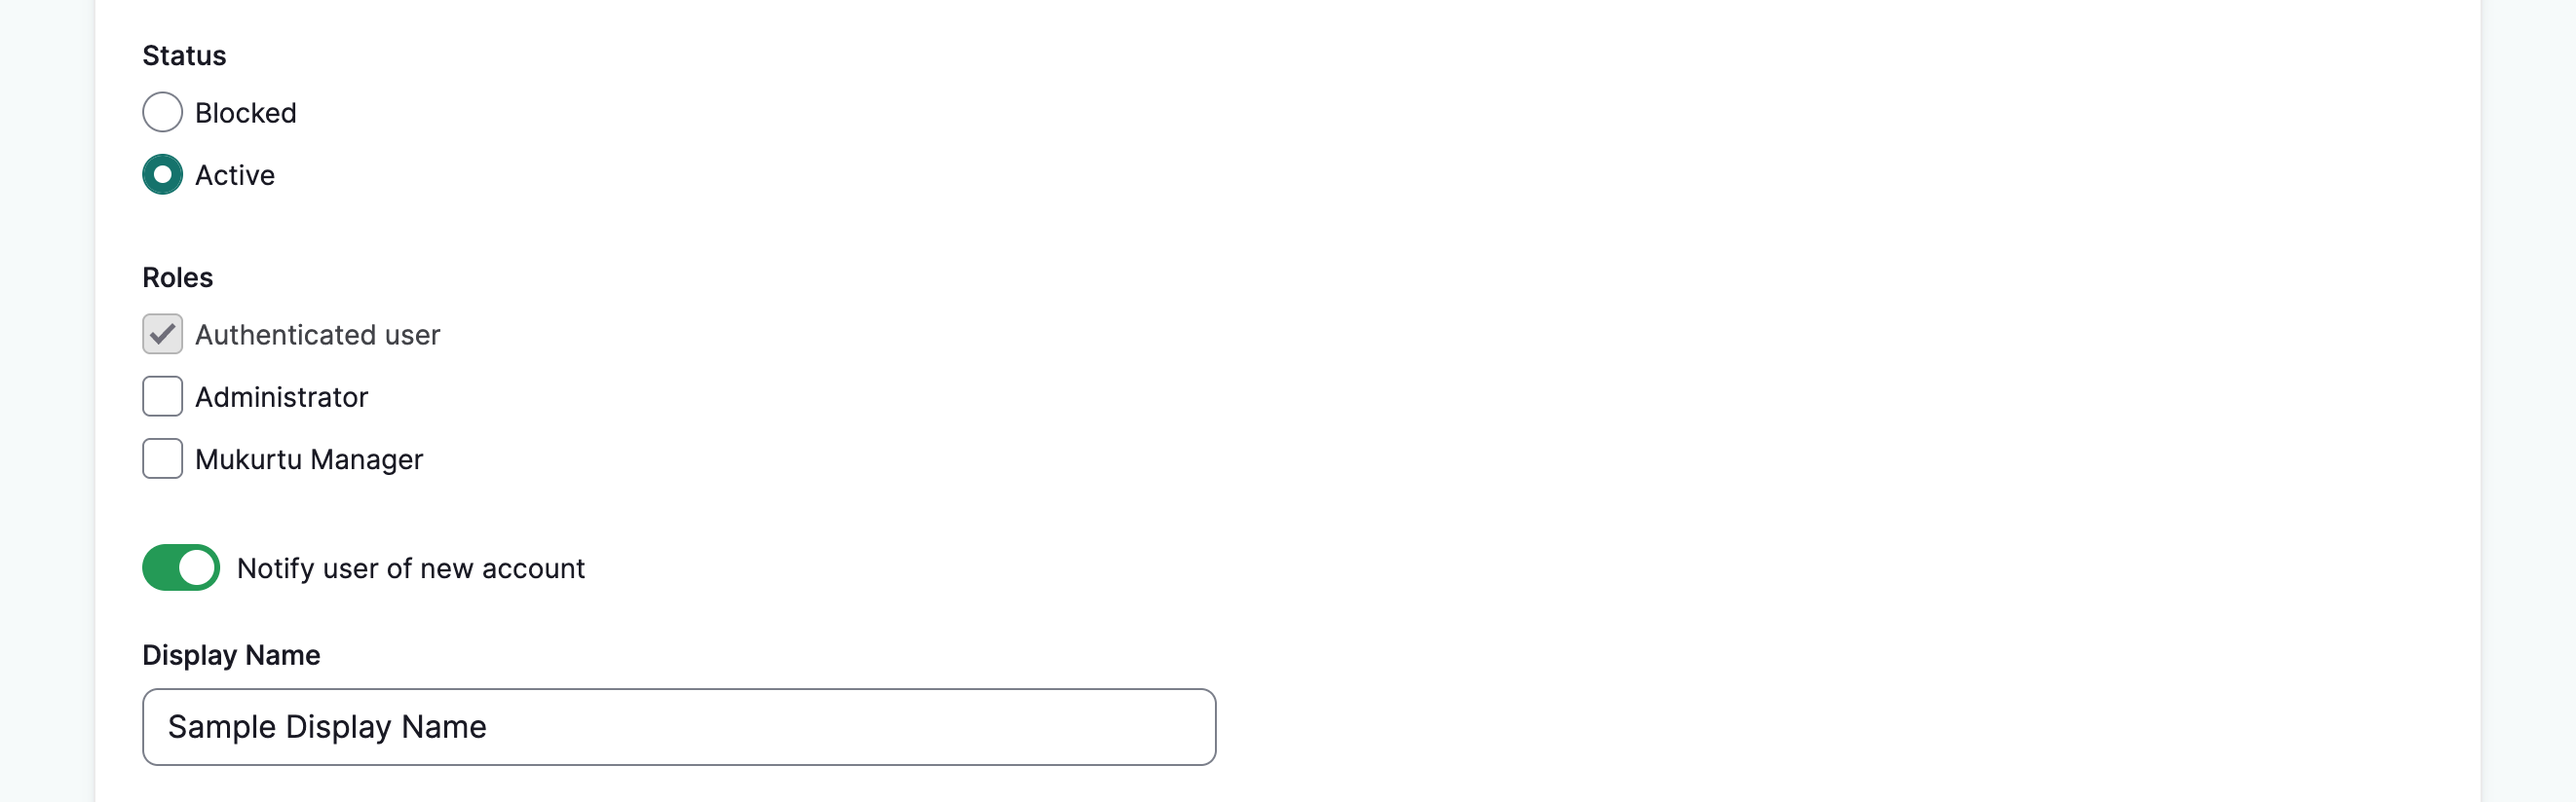
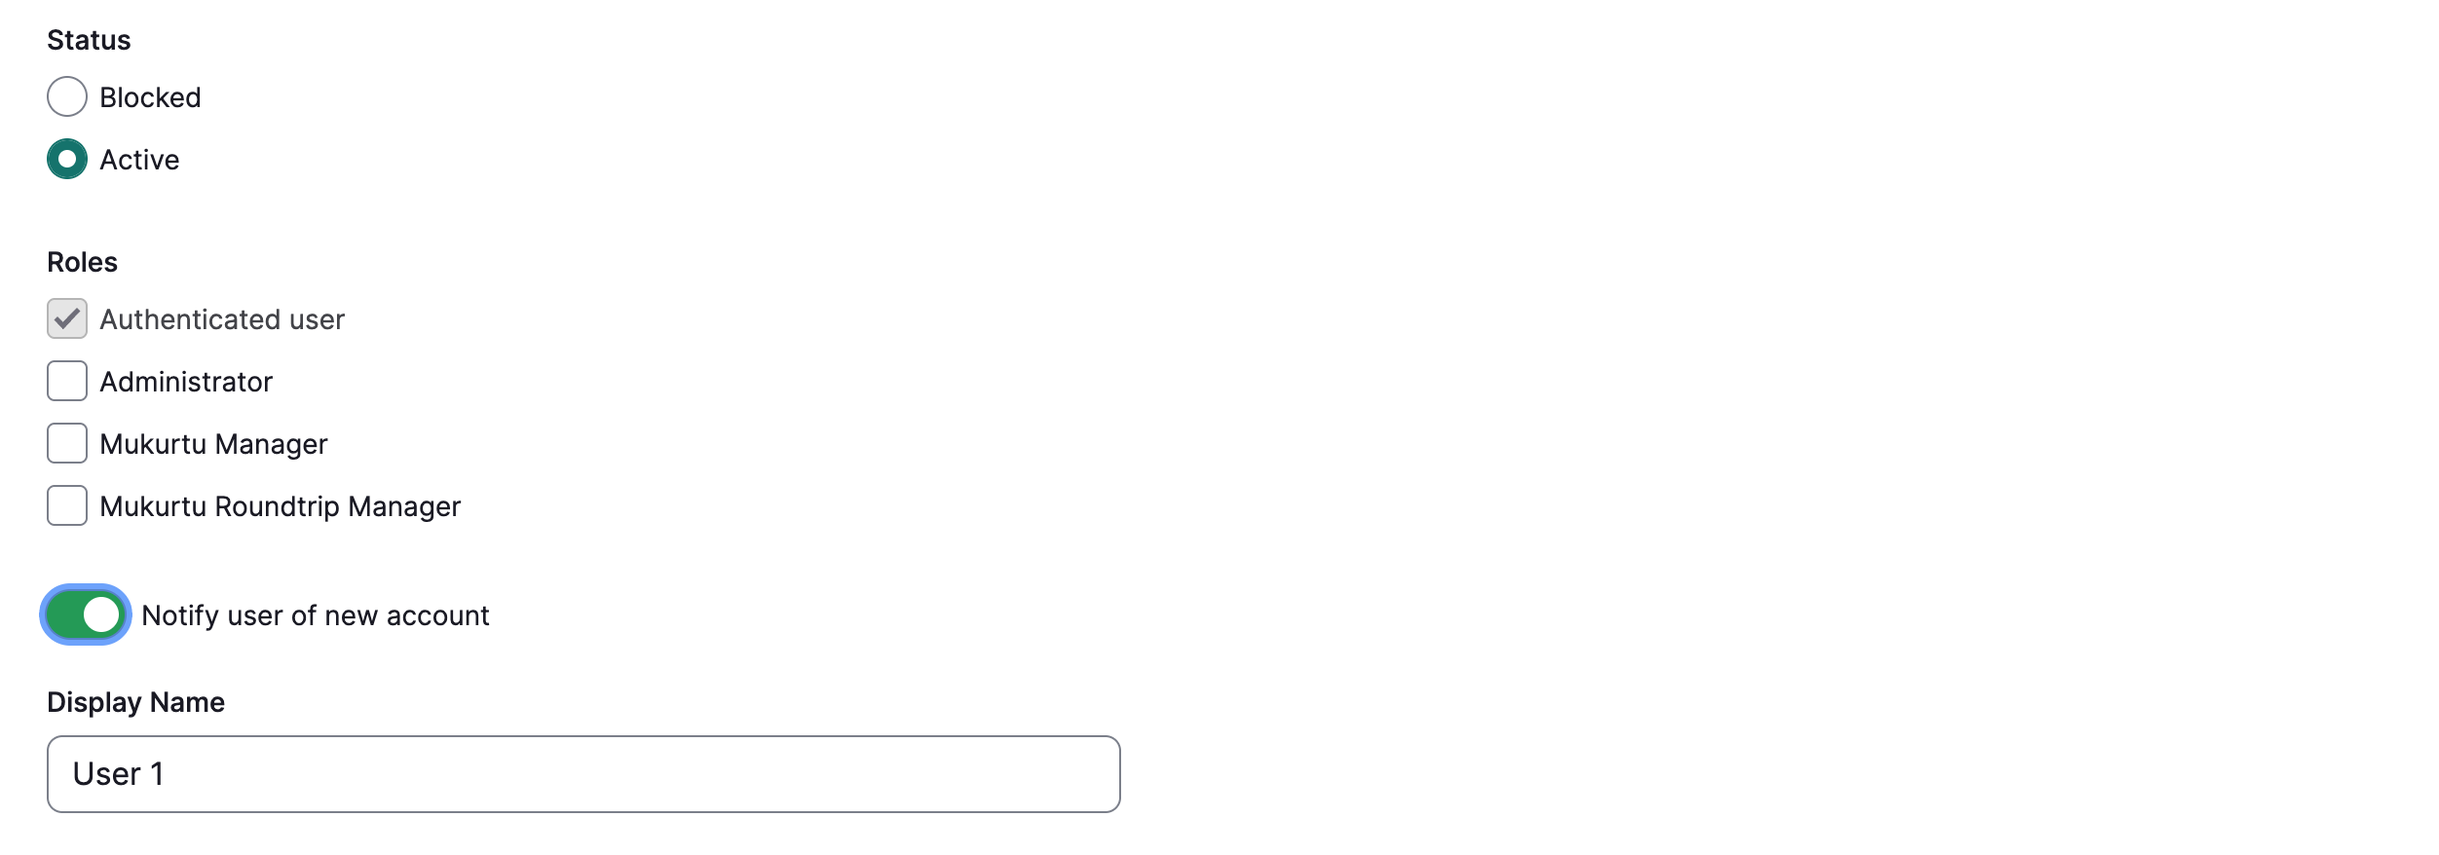
User Management - Roundtrip Manager
I think these are all the articles on the user management side that needed to be updated with roundtrip manager. I added some new verbiage to the User Roles article so let me know if that sounds ok. All the other changes are pretty basic.

diff --git a/docs/users/manage-user-accounts-site-wide.md b/docs/users/manage-user-accounts-site-wide.md
@@ -32,15 +32,18 @@ You can also make certain changes to user accounts in bulk. Available changes ar
 - Add the administrator role to the selected users 
     - The selected users will be assigned the administrator role 
 - Add the Mukurtu Manager role to the selected users (use with extreme caution!)
-    - The select users will be assigned the Mukurtu manager role.
+    - The selected users will be assigned the Mukurtu manager role.
+- Add the Mukurtu Roundtrip Manager role to the selected user(s)
+    - The selected users will be assigned the Mukurtu Roundtrip Manager role.
 - Block the selected user(s) 
     - The status of the user will be changed from "active" to "blocked"
 - Cancel the selected user account(s)
     - Applying this action will open a secondary page where you will select a cancellation method.
 - Remove the administrator role from the selected user(s) 
     - The administrator role and associated acceess and capabilities will be removed from the user(s)
-- Remove the Mukurtu manager role from the selected user(s) 
-    - The Mukurtu manager role and associated access and capabiltiites will be removed from the user(s)
+- Remove the Mukurtu Manager role from the selected user(s) 
+    - The Mukurtu Manager role and associated access and capabiltiites will be removed from the user(s)
+- Remove the Mukurtu Roundtrip Manager role from the selected user(s)
 - Unblock the selected user(s) 
     - The user's status will be changed from "blocked" to "active"
 
@@ -85,12 +88,19 @@ SCREENSHOT 20
 2. A success message is displayed, and the administrator role is applied to the selected users.
 ![The people page reloaded with a success message. The added administrator role is highlighted](../_embeds/add-user-account-22.png)
 
-### Add the Mukurtu Manager role to the selected users
+### Add the Mukurtu manager role to the selected users
 1. Complete steps 1-3.
-![The people page with two users selected and the action item "Add the Mukurtu Manager role to the selected users" is selected](../_embeds/add-user-account-23.png)
+![The people page with two users selected and the action item "Add the Mukurtu manager role to the selected users" is selected](../_embeds/add-user-account-23.png)
 
 2. A success message is displayed, and the Mukurtu manager role is applied to the selected users.
 ![The people page reloaded with a success message. The added Mukurtu manager role is highlighted](../_embeds/add-user-account-24.png)
+
+### Add the Mukurtu Roundtrip manager role to the selected users
+1. Complete steps 1-3.
+![The people page with two users selected and the action item "Add the Mukurtu Roundtrip manager role to the selected users" us selected](../_embeds/add-user-account-42.png)
+
+2. A success message is displayed, and the Mukurtu Roundtrip manager role is applied to the selected users.
+![The people page reloaded with a success message. The added Mukurtu Roundtrip manager role is highlighted](../_embeds/add-user-account-43.png)
 
 ### Block the selected user(s)
 1. Complete steps 1-3.
@@ -171,7 +181,14 @@ Deleting the account and its content will completely delete the user(s) and all 
 ![The people page with two users selected and the action item "Remove the Mukurtu manager role from the selected user(s)" is selected](../_embeds/add-user-account-38.png)
 
 2. A success message is displayed, and the Mukurtu manager role is removed from the selected users.
-![The people page reloaded with a success message. The selected users are no longer Mukurtu Managers. Their role is highlighted](../_embeds/add-user-account-39.png)
+![The people page reloaded with a success message. The selected users are no longer Mukurtu anagers. Their role is highlighted](../_embeds/add-user-account-39.png)
+
+### Remove the Mukurtu Roundtrip manager Role from the selected user(s) 
+1. Complete steps 1-3.
+![The people page with two users selected and the action item "Remove the Mukurtu Roundtrip manager role from the selected user(s)" is selected](../_embeds/add-user-account-44.png)
+
+2. A success message is displayed, and the Mukurtu Roundtrip manager role is removed from the selected users.
+![The people page reloaded with a success message. The selected users are no longer Mukurtu Managers. Their role is highlighted](../_embeds/add-user-account-45.png)
 
 ### Unblock the selected user(s)
 1. Complete steps 1-3.

diff --git a/docs/users/creating-account-site-wide.md b/docs/users/creating-account-site-wide.md
@@ -50,7 +50,7 @@ Once the form is open, fill out the form.
     1. When a user submits an account request, their account is created and their status is set to "Blocked" until the Mukurtu manager approves the account and changes their status to "Active".
     2. When a user takes inappropriate actions that warrant a temporary loss of access to the site. To access the site again, their status must be changed to "Active."
 
-5. Select a site-wide role for the user. By default, all users are assigned the authenticated user role, and this is the correct setting for the majority of users. This role allows them to view public material and save content to their own personal collections. The administrator and Mukurtu manager roles are for users who manage the site and therefore have additional access to controls and settings. Assign these roles with extreme caution.
+5. Select a site-wide role for the user. By default, all users are assigned the authenticated user role, and this is the correct setting for the majority of users. This role allows them to view public material and save content to their own personal collections. The administrator and Mukurtu manager roles are for users who manage the site and therefore have additional access to controls and settings. The Mukurtu Roundtrip manager role can be assigned to users who need access to roundtrip (import/export) tools. Assign these roles with extreme caution.
 
     !!! tip
 	    For detailed information about user account requests, see [Request an Account](request-an-account.md).

diff --git a/docs/users/user-role-types.md b/docs/users/user-role-types.md
@@ -21,6 +21,10 @@ This role is automatically assigned to the account that was created when first s
 
 Mukurtu managers handle most of the site-wide management. They create and manage user accounts, review and approve user account requests, assign site-wide roles, create and delete communities, assign community manager roles, manage taxonomies, and have access to Roundtrip tools for import and export. 
 
+### Mukurtu Roundtrip Manager
+
+The Mukurtu roundtrip manager role is assigned to users who need access to Mukurtu's import/export tools known collectively as roundtrip. In previous versions of Mukurtu, roundtrip was only available to administrative roles with come with many extra controls and permissions. The Mukurtu roundtrip manager allows those with content creation permissions to upload and export metadata and media assets according to those permissions while avoiding exposure to unecessary site controls. 
+
 ### Authenticated user
 
 Authenticated users are registered users. They have a username and a password and can be assigned to both site-wide and group user roles. Users that have not been assigned to a role can view any pages, browse pages, and community pages under open protocols. Digital heritage items and dictionary words under open protocols are also visible. Users can create their own personal collections out of existing content.
